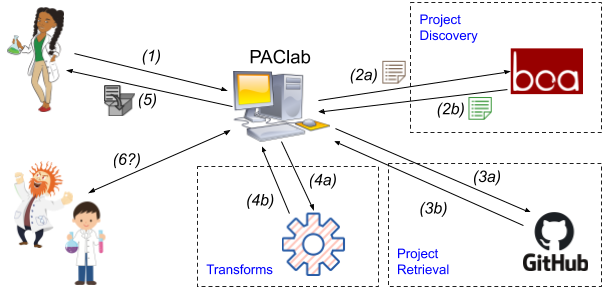
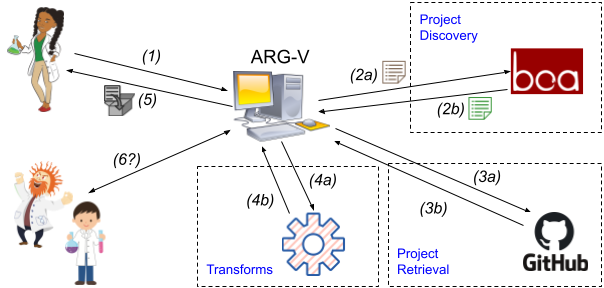
Rename PAClab to ARG-V (#106)

Changed region(s): [[0.3874, 0.1562, 0.5364, 0.2188], [0.6854, 0.0938, 0.7152, 0.125], [0.6258, 0.5625, 0.6556, 0.5938]]

diff --git a/website/templates/website/index.html b/website/templates/website/index.html
@@ -5,7 +5,7 @@
         {% include 'website/messages.html' %}
         <div class="row">
             <div class="col-lg-12">
-                <h1>PAClab - a Program Analysis ColLABoratory</h1>
+                <h1>ARG-V - Adaptable Realistic Benchmark Generator for Verification</h1>
             </div>
         </div>
         <div class="row">
@@ -15,8 +15,9 @@
         </div>
         <div class="row">
             <div class="col-lg-12">
-        <p>Benchmark programs play an important role in evaluating the advances in program analysis research. Thus, the confidence of the evaluation depends on the quantity and the quality of the benchmark programs. The larger their number and the closer they resemble real-world programs, the higher confidence in the evaluation. Currently, research in the field of program analysis often relies on a few outdated or deficient benchmark programs for evaluation purposes. The difficulty in obtaining sufficient benchmark programs comes from the requirements imposed on the benchmark programs by program analyzers. Usually researchers manually obtain, inspect, and transform potential benchmark programs to create benchmark programs that meet those requirements. Such an unscalable approach often fails to produce adequate benchmark programs. The goal of this research is to automate this process and make it available through an online, public infrastructure. The infrastructure facilitates obtaining, selecting, and transforming open-source software projects for use as benchmark programs. In addition, the infrastructure gives researchers the ability to easily curate benchmark programs for program analysis and share the results of running their analyzers on those benchmarks.</p>
-        <p>The objectives of this project are to solicit requirements and feedback from the program analysis community on automating benchmark program generation, and to prototype a Program Analysis Collaboratory (PAClab) research infrastructure that implements that process. Using researchers' specifications for adequate benchmark program generation, PAClab locates and obtains potential benchmark programs in open-source repositories; performs necessary program transformations as specified by researchers; and outputs the adequate benchmark programs. In addition, PAClab enables researchers to share their program analyzers using container technology, the transformed benchmark programs, and the results of running their analyzers on those benchmark programs. The intellectual merit of the project lies in investigating techniques for specifying and automating program transformations for targeted program analyzers. The broader impacts of the project stem from its potential to broaden adaptation of program analysis advances through the increased confidence of their evaluations; to lower the entry barrier for new program analysis researchers; and to accelerate the pace in program analysis research. PAClab's educational benefits include the ability for students to easily locate real-world programs and evaluate their implementations of program analyzers.</p>
+                <p>Software verification is an essential and widely used approach to ensure software works as expected. Software quality teams use verification tools that automatically search for software bugs. However, there are many such tools available to verify software. To compare these tools, the verification community organizes the SV-COMP software verification competition event. It runs verifiers on sample programs called benchmarks. Benchmarks can become outdated, thus no longer representing modern software. This can lead to verifiers falsely reporting that software is bug-free. To avoid this problem, SV-COMP needs to update its benchmark programs with new programs from online repositories with lots of existing code. However, converting these programs into usable benchmarks is a slow and difficult task. The Adaptable Realistic Benchmark Generator for Verification (ARG-V) project aims to make this process faster and easier. The project?s novelties are: (1) automatically finding and converting code repository programs into SV-COMP benchmarks, and (2) classifying the new benchmarks. The project's impacts are: (1) strengthening verification tools? ability to find bugs, and (2) involving the verification community in the creation and classification of benchmark programs. The project contributes to the education of undergraduate and graduate students by developing benchmarking course modules and providing professional training.</p>
+
+                <p>The goal of the ARG-V infrastructure is to automatically obtain a current, realistic set of benchmarks for program verifiers in the SV-COMP format. Because verifiers interpret program semantics in depth, they design different reasoning engines for specific program constructs, e.g., integer operations vs. floating-point operations. This project leverages existing infrastructure to automatically locate candidate benchmark programs from open-source repositories that contain these program constructs. The ARG-V infrastructure then applies systematic, user-defined transformations to the candidate programs to prepare them for use as benchmarks in SV-COMP. This project advances the state of the art by providing an automated solution for benchmark generation that creates realistic benchmarks from real-world programs. In addition, the project investigates the classification of the obtained benchmarks based on the specific program features and type of analysis used in verification. The built infrastructure is made available to the program verification community for use in their research, resulting in improved benchmarking and evaluation of future program verifiers.</p>
             </div>
         </div>
 <!--

diff --git a/website/templates/website/policies/agreement/terms.html b/website/templates/website/policies/agreement/terms.html
@@ -2,7 +2,7 @@
 
 <h2>1. User's Acknowledgment and Acceptance of Terms</h2>
 
-<p>PAClab (&quot;Us&quot; or &quot;We&quot;) provides the PAClab site and various
+<p>ARG-V (&quot;Us&quot; or &quot;We&quot;) provides the ARG-V site and various
 related services (collectively, the &quot;site&quot;) to you, the user, subject
 to your compliance with all the terms, conditions, and notices contained or
 referenced herein (the &quot;Terms of Use&quot;), as well as any other written
@@ -155,7 +155,7 @@ site. This includes message boards, chat, and other original content.</p>
 <p>By accepting these Terms of Use, you acknowledge and agree that all content
 presented to you on this site is protected by copyrights, trademarks, service
 marks, patents or other proprietary rights and laws, and is the sole property
-of PAClab and/or its Affiliates. You are only permitted to use the content as
+of ARG-V and/or its Affiliates. You are only permitted to use the content as
 expressly authorized by us or the specific content provider. Except for a
 single copy made for personal use only, you may not copy, reproduce, modify,
 republish, upload, post, transmit, or distribute any documents or information
@@ -174,10 +174,10 @@ posted on this site infringes on any patent, trademark, trade secret,
 copyright, right of publicity, or other proprietary right of any party.</p>
 
 <p>All custom graphics, icons, logos and service names are registered
-trademarks, trademarks or service marks of PAClab or its Affiliates. All other
+trademarks, trademarks or service marks of ARG-V or its Affiliates. All other
 trademarks or service marks are property of their respective owners. Nothing in
 these Terms of Use grants you any right to use any trademark, service mark,
-logo, and/or the name of PAClab or its Affiliates.</p>
+logo, and/or the name of ARG-V or its Affiliates.</p>
 
 <h2>7. Unauthorized Use of Materials</h2>
 
@@ -221,7 +221,7 @@ COMPUTER SYSTEM OR LOSS OF DATA THAT RESULTS FROM SUCH ACTIVITIES.</p>
 judgments of an information provider, site user, or other person or entity not
 connected with us. We do not endorse, nor are we responsible for the accuracy
 or reliability of, any opinion, advice, or statement made by anyone other than
-an authorized PAClab spokesperson speaking in his/her official capacity. Please
+an authorized ARG-V spokesperson speaking in his/her official capacity. Please
 refer to the specific editorial policies posted on various sections of this
 site for further information, which policies are incorporated by reference into
 these Terms of Use.</p>
@@ -325,7 +325,7 @@ Nebraska with respect to such matters.</p>
 
 <p>All notices to a party shall be in writing and shall be made either via
 email or conventional mail. Notices to us must be sent to the attention of
-<a href="{% url 'website:people' %}">an admin</a>, if by email, or to PAClab,
+<a href="{% url 'website:people' %}">an admin</a>, if by email, or to ARG-V,
 103E Avery Hall, University of Nebraska&mdash;Lincoln, Lincoln NE 68588 if by
 conventional mail. Notices to you may be sent to the address supplied by you as
 part of your Registration Data. In addition, we may broadcast notices or

diff --git a/website/templates/website/base.html b/website/templates/website/base.html
@@ -5,7 +5,7 @@
     <meta charset="utf-8">
     <meta http-equiv="X-UA-Compatible" content="IE=edge">
     <meta name="viewport" content="width=device-width, initial-scale=1.0">
-    <title>PAClab - {% block title %}PAClab{% endblock %}</title>
+    <title>ARG-V - {% block title %}ARG-V{% endblock %}</title>
 
     <link rel="stylesheet" type="text/css" href="https://stackpath.bootstrapcdn.com/bootstrap/3.4.1/css/bootstrap.min.css" integrity="sha384-HSMxcRTRxnN+Bdg0JdbxYKrThecOKuH5zCYotlSAcp1+c8xmyTe9GYg1l9a69psu" crossorigin="anonymous">
     <link rel="stylesheet" type="text/css" href="https://ajax.googleapis.com/ajax/libs/jqueryui/1.12.1/themes/base/jquery-ui.css" integrity="sha384-xewr6kSkq3dBbEtB6Z/3oFZmknWn7nHqhLVLrYgzEFRbU/DHSxW7K3B44yWUN60D" crossorigin="anonymous">
@@ -24,7 +24,7 @@
                 <span class="icon-bar"></span>
                 <span class="icon-bar"></span>
             </button>
-            <a class="navbar-brand" href="{% url 'website:index' %}"> PAClab </a>
+            <a class="navbar-brand" href="{% url 'website:index' %}"> ARG-V </a>
         </div>
 
         <!--Navbar Links-->
@@ -42,8 +42,8 @@
                 <li class="dropdown">
                     <a href="#" class="dropdown-toggle" data-toggle="dropdown">Source <span class="caret"></span></a>
                     <ul class="dropdown-menu">
-                        <li><a target="_blank" href="https://github.com/bgsu-pal/paclab-www/">Website source code (GitHub)</a></li>
-                        <li><a target="_blank" href="https://github.com/bgsu-pal/paclab-transformer">Transformer source code (GitHub)</a></li>
+                        <li><a target="_blank" href="https://github.com/bgsu-pal/argv-www/">Website source code (GitHub)</a></li>
+                        <li><a target="_blank" href="https://github.com/bgsu-pal/argv-transformer">Transformer source code (GitHub)</a></li>
                     </ul>
                 </li>
             </ul>

diff --git a/website/templates/website/papers.html b/website/templates/website/papers.html
@@ -4,9 +4,9 @@
 {% block body %}
     <div class="container-fluid">
         {% include 'website/messages.html' %}
-        <h1>Publications related to PAClab</h1>
+        <h1>Publications related to ARG-V/PAClab</h1>
         <p>
-            If you have used PAClab in a research paper, please <a href="{% url 'website:people' %}">contact us</a> and let us know so we can include the publication in this list!
+            If you have used ARG-V/PAClab in a research paper, please <a href="{% url 'website:people' %}">contact us</a> and let us know so we can include the publication in this list!
         </p>
         <div class="table-responsive">
             <table class="table table-striped">

diff --git a/website/templates/website/selections/detail.html b/website/templates/website/selections/detail.html
@@ -144,7 +144,7 @@
                     <h3 class="panel-title">Share this project selection</h3>
                 </div>
                 <div class="panel-body">
-                    <p>Enter any email address or a PAClab username to share this project selection.</p>
+                    <p>Enter any email address or a ARG-V username to share this project selection.</p>
                     <form method="POST" enctype="multipart/form-data">
                         {% csrf_token %}
                         {% include 'website/form.html' %}

diff --git a/website/templates/website/transforms/detail.html b/website/templates/website/transforms/detail.html
@@ -140,7 +140,7 @@
                     <h3 class="panel-title">Share this project transform</h3>
                 </div>
                 <div class="panel-body">
-                    <p>Enter any email address or a PAClab username to share this project transform.</p>
+                    <p>Enter any email address or a ARG-V username to share this project transform.</p>
                     <form method="POST" enctype="multipart/form-data">
                         {% csrf_token %}
                         {% include 'website/form.html' %}

diff --git a/website/templates/website/selections/create_manual.html b/website/templates/website/selections/create_manual.html
@@ -14,7 +14,7 @@
                     <div class="col-xs-12">
                         <p>
                             Use this page to manually specify a list of Git URLs.  The generated selection will
-                            contain all projects from the list of URLs that PAClab is able to clone.
+                            contain all projects from the list of URLs that ARG-V is able to clone.
                         </p>
                     </div>
                 </div>

diff --git a/website/templates/website/user/verification_email.html b/website/templates/website/user/verification_email.html
@@ -1,11 +1,11 @@
 {% autoescape off %}
 Dear {{ user.first_name }},
 
-Thank you for trying out PAClab!
+Thank you for trying out ARG-V!
 
-Please click the following link or copy/paste into a browser to finalize your PAClab registration:
+Please click the following link or copy/paste into a browser to finalize your ARG-V registration:
 
 http://{{ domain }}{% url 'website:verify_email' uidb64=uid token=token %}
 
-- The PAClab Team
+- The ARG-V Team
 {% endautoescape %}

diff --git a/website/templates/website/funding.html b/website/templates/website/funding.html
@@ -11,7 +11,7 @@
         </div>
         <div class="row">
             <div class="col-xs-12">
-                <p>PAClab's team is very thankful for the financial support provided to it.<p>
+                <p>ARG-V's team is very thankful for the financial support provided to it.<p>
             </div>
         </div>
         <div class="row top-buffer">

diff --git a/website/templates/website/selections/shared_email.html b/website/templates/website/selections/shared_email.html
@@ -1,1 +1,1 @@
-<p>{{ user }} has shared a <a href="{{ url }}">project selection</a> with you on PAClab.</p>
+<p>{{ user }} has shared a <a href="{{ url }}">project selection</a> with you on ARG-V.</p>

diff --git a/website/templates/website/transforms/shared_email.html b/website/templates/website/transforms/shared_email.html
@@ -1,1 +1,1 @@
-<p>{{ user }} has shared a <a href="{{ url }}">project transform</a> with you on PAClab.</p>
+<p>{{ user }} has shared a <a href="{{ url }}">project transform</a> with you on ARG-V.</p>

diff --git a/website/views.py b/website/views.py
@@ -77,7 +77,7 @@ class RegisterView(View):
 
             login(request, user)
 
-            send_email_verify(request, user, 'Verify your email with PAClab')
+            send_email_verify(request, user, 'Verify your email with ARG-V')
             messages.info(request, 'Please check and confirm your email to complete registration.')
 
             return redirect('website:index')
@@ -405,7 +405,7 @@ def profile(request):
             if 'email' in userForm.changed_data:
                 request.user.profile.active_email = False
                 request.user.profile.save()
-                send_email_verify(request, request.user, 'Verify your email with PAClab')
+                send_email_verify(request, request.user, 'Verify your email with ARG-V')
 
             if profileForm.cleaned_data['photo']:
                 image = Image.open(request.user.profile.photo)
@@ -794,7 +794,7 @@ def download_selection(request, slug):
             if not os.path.exists(download_path):
                 os.mkdir(download_path, 0o755)
 
-            readme = """This archive was generated by PAClab - https://paclab.dev/
+            readme = """This archive was generated by ARG-V - https://arg-v.dev/
 
 Selection: """ + slug + """
 Submitted: """ + str(selector.created) + """
@@ -852,7 +852,7 @@ def download_transform(request, slug):
             if not os.path.exists(download_path):
                 os.mkdir(download_path, 0o755)
 
-            readme = """This archive was generated by PAClab - https://paclab.dev/
+            readme = """This archive was generated by ARG-V - https://arg-v.dev/
 
 Transform: """ + slug + """
 Submitted: """ + str(transform.created) + """
